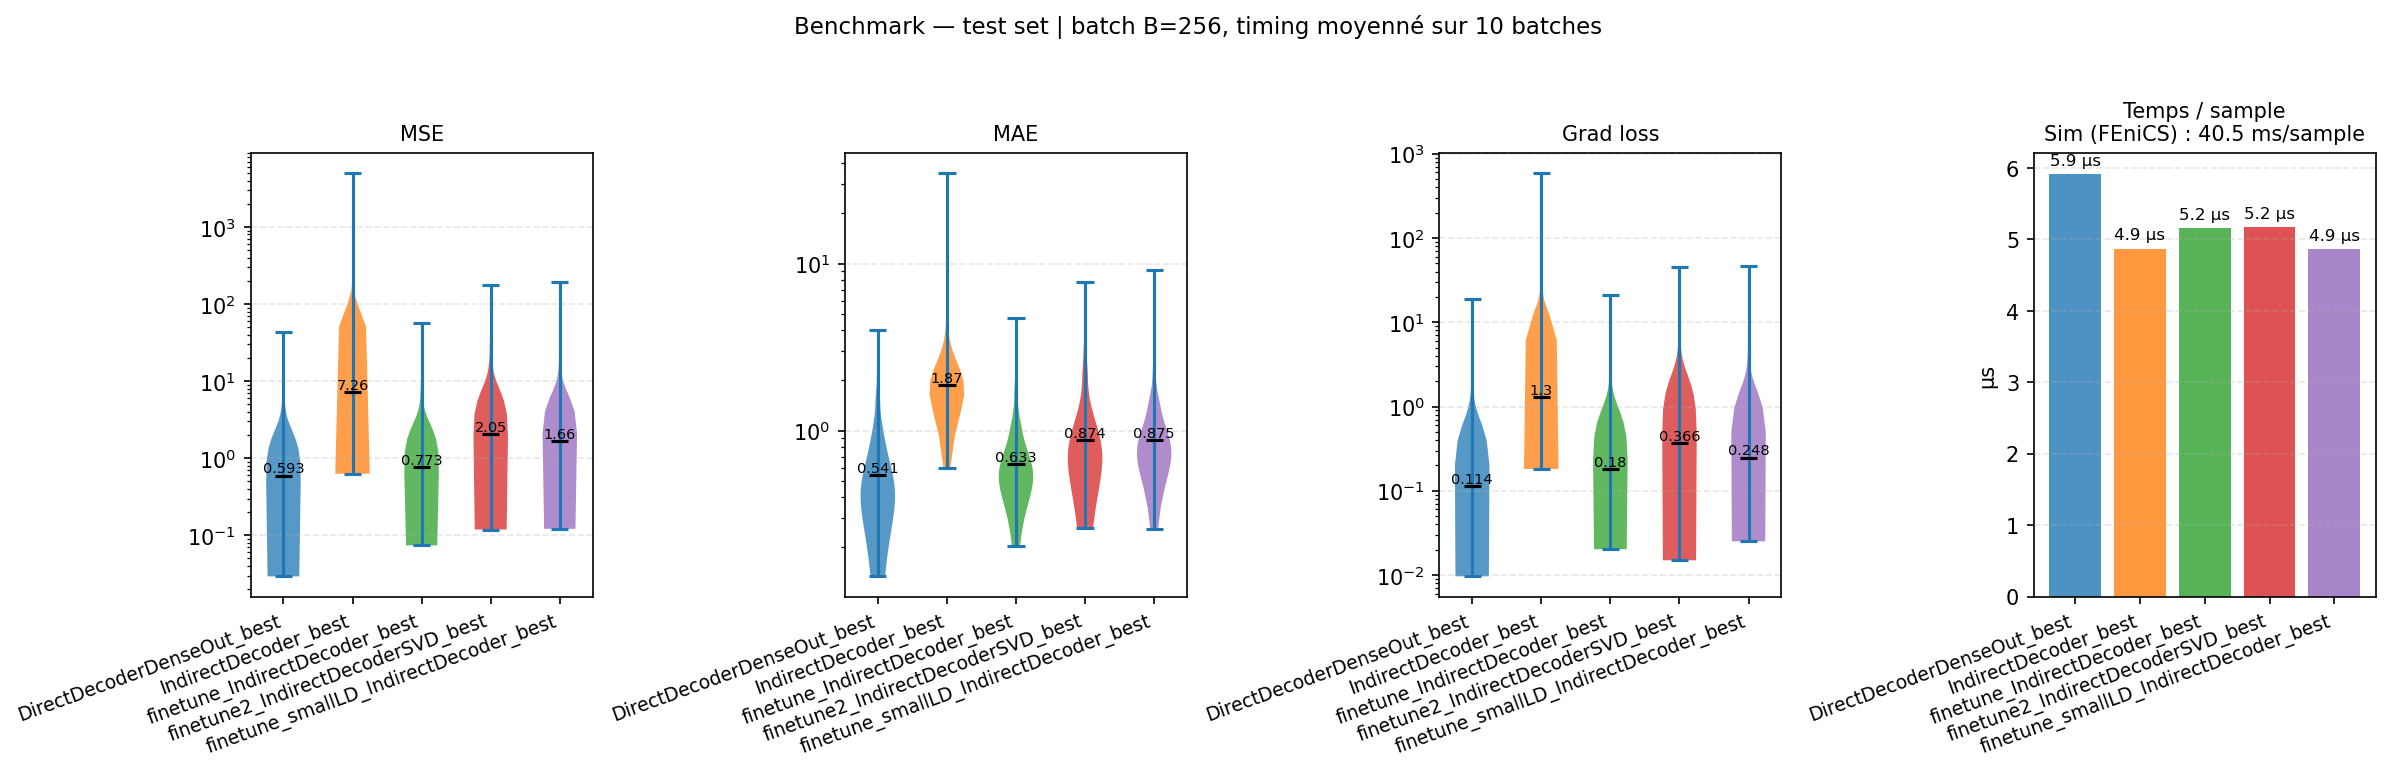
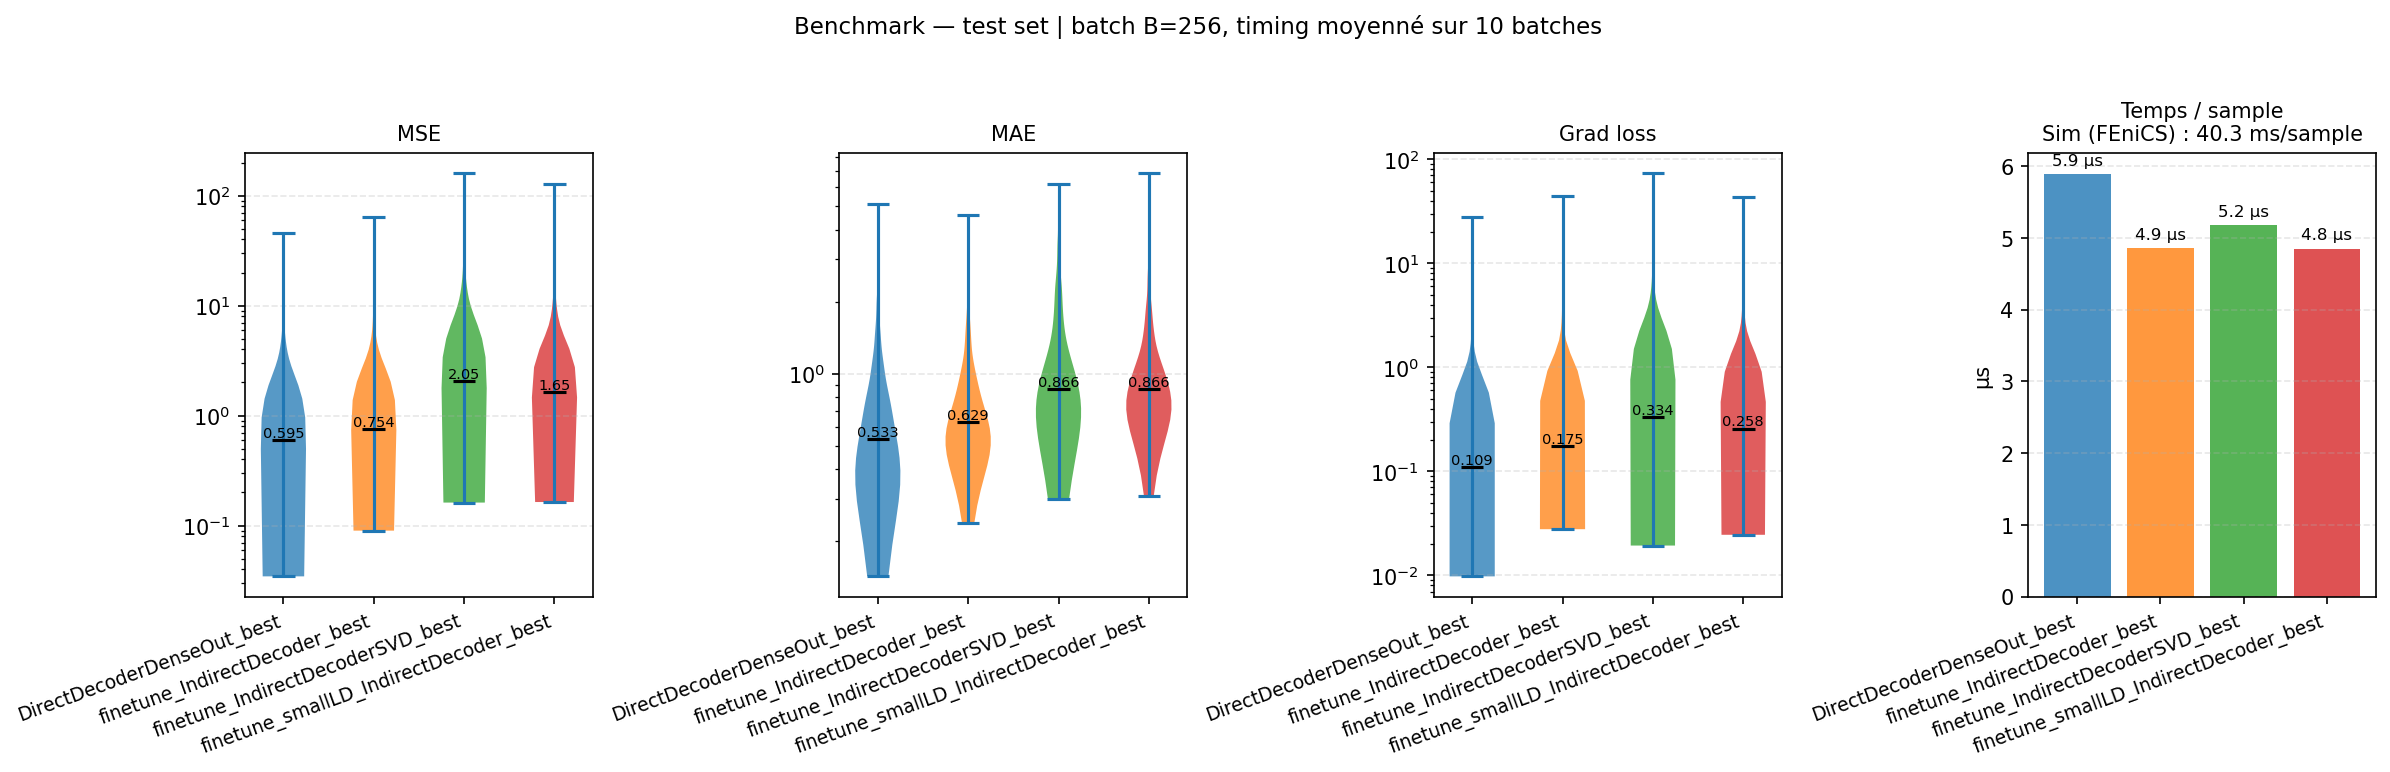
model selection

diff --git a/demo.py b/demo.py
@@ -108,7 +108,6 @@ if __name__ == '__main__':
         theta_raw  = random_theta(),
         ckpt_paths = [
             'checkpoints/DirectDecoderDenseOut_best.pt',
-            'checkpoints/IndirectDecoder_best.pt',
             'checkpoints/finetune_IndirectDecoder_best.pt',
             'checkpoints/finetune_IndirectDecoderSVD_best.pt',
             'checkpoints/finetune_smallLD_IndirectDecoder_best.pt',

diff --git a/benchmark.py b/benchmark.py
@@ -239,7 +239,6 @@ if __name__ == '__main__':
     results = benchmark(
         ckpt_paths   = [
             'checkpoints/DirectDecoderDenseOut_best.pt',
-            'checkpoints/IndirectDecoder_best.pt',
             'checkpoints/finetune_IndirectDecoder_best.pt',
             "checkpoints/finetune_IndirectDecoderSVD_best.pt",
             "checkpoints/finetune_smallLD_IndirectDecoder_best.pt"
